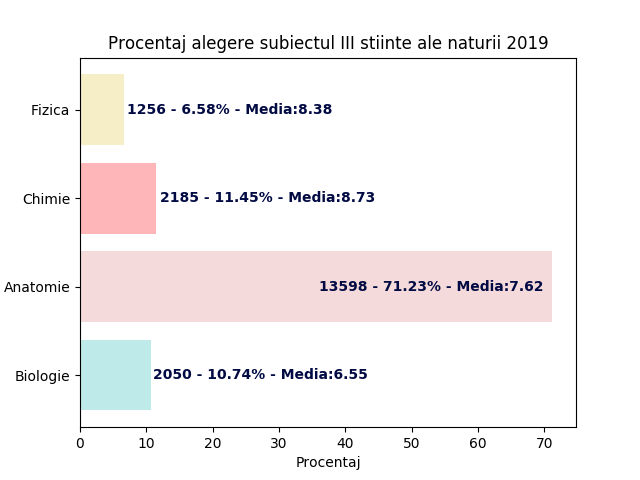
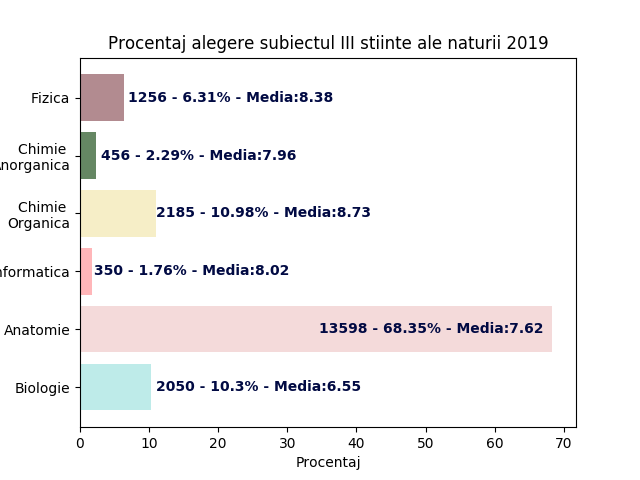
Made barchart for tehnic and resurse naturale profiles Updated Student Class with the "profile" field

diff --git a/create_stats/create_barchart.py b/create_stats/create_barchart.py
@@ -72,11 +72,12 @@ def create_barchart_percentage(all_students, current_export_path, year):
     all_students_informatica = filter_all(all_students_mate_info, subject3 = "informatica mi c/c++")
     all_students_biologie = filter_all(all_students_mate_info, subject3 = "biologie vegetala si animala")
     all_students_anatomie = filter_all(all_students_mate_info, subject3 = "anatomie si fiziologie umana, genetica si ecologie umana")
-    all_students_chimie = filter_all(all_students_mate_info, subject3 = "chimie organica teo nivel i/ii")
+    all_students_chimie_organica = filter_all(all_students_mate_info, subject3 = "chimie organica teo nivel i/ii")
+    all_students_chimie_anorganica = filter_all(all_students_mate_info, subject3 = "chimie anorganica teo nivel i/ii")
     all_students_fizica = filter_all(all_students_mate_info, subject3 = "fizica teo")
     
 
-    students_list = [all_students_informatica, all_students_biologie, all_students_anatomie, all_students_chimie, all_students_fizica]
+    students_list = [all_students_informatica, all_students_biologie, all_students_anatomie, all_students_chimie_organica, all_students_chimie_anorganica, all_students_fizica]
 
     all_grades = []
 
@@ -87,10 +88,10 @@ def create_barchart_percentage(all_students, current_export_path, year):
         suma = float(suma) / float(len(student_type))
         all_grades.append(suma)
 
-    colors = ['#BEEBE9', '#F4DADA', '#ffb6b9', '#f6eec7', '#B3C7BA']
+    colors = ['#BEEBE9', '#F4DADA', '#ffb6b9', '#f6eec7', '#B3C7BA', '#B28B90']
 
 
-    name_list = ["Informatica", "Biologie", "Anatomie",  "Chimie", "Fizica"]
+    name_list = ["Informatica", "Biologie", "Anatomie",  "Chimie  \nOrganica", "Chimie    \nAnorganica", "Fizica"]
     make_barchart_percentage_subject3(all_students = students_list, all_grades = all_grades, categories_names = name_list, title = ("Procentaj alegere subiectul III matematica-informatica " + str(year)), current_export_path = current_export_path_4, colors = colors)
 
     #------Stiinte ale naturii alegere sub 3------
@@ -101,14 +102,15 @@ def create_barchart_percentage(all_students, current_export_path, year):
     current_export_path_6 = os.path.join(current_export_path_6, str(year))
 
     all_students_mate_info = filter_all(all_students, specialisation = "stiinte ale naturii")
-    #all_students_informatica = filter_all(all_students_mate_info, subject3 = "informatica mi c/c++")
+    all_students_informatica = filter_all(all_students_mate_info, subject3 = "informatica sn c/c++")
     all_students_biologie = filter_all(all_students_mate_info, subject3 = "biologie vegetala si animala")
     all_students_anatomie = filter_all(all_students_mate_info, subject3 = "anatomie si fiziologie umana, genetica si ecologie umana")
-    all_students_chimie = filter_all(all_students_mate_info, subject3 = "chimie organica teo nivel i/ii")
+    all_students_chimie_organica = filter_all(all_students_mate_info, subject3 = "chimie organica teo nivel i/ii")
+    all_students_chimie_anorganica = filter_all(all_students_mate_info, subject3 = "chimie anorganica teo nivel i/ii")
     all_students_fizica = filter_all(all_students_mate_info, subject3 = "fizica teo")
     
 
-    students_list = [all_students_biologie, all_students_anatomie, all_students_chimie, all_students_fizica]
+    students_list = [all_students_biologie, all_students_anatomie, all_students_informatica, all_students_chimie_organica, all_students_chimie_anorganica, all_students_fizica]
 
     all_grades = []
 
@@ -119,10 +121,10 @@ def create_barchart_percentage(all_students, current_export_path, year):
         suma = float(suma) / float(len(student_type))
         all_grades.append(suma)
 
-    colors = ['#BEEBE9', '#F4DADA', '#ffb6b9', '#f6eec7']
+    colors = ['#BEEBE9', '#F4DADA', '#ffb6b9', '#f6eec7', '#658763', '#B28B90']
 
     
-    name_list = ["Biologie", "Anatomie",  "Chimie", "Fizica"]
+    name_list = ["Biologie", "Anatomie",  "Informatica", "Chimie \nOrganica", "Chimie \nAnorganica", "Fizica"]
     
     make_barchart_percentage_subject3(all_students = students_list, all_grades = all_grades, categories_names = name_list, title = ("Procentaj alegere subiectul III stiinte ale naturii " + str(year)), current_export_path = current_export_path_6, colors = colors)
 
@@ -161,6 +163,86 @@ def create_barchart_percentage(all_students, current_export_path, year):
     name_list = ["Filosofie", "Logica", "Sociologie",  "Geografie", "Psihologie", "Economie"]
 
     make_barchart_percentage_subject3(all_students = students_list, all_grades = all_grades, categories_names = name_list, title = ("Procentaj alegere subiectul III filologie " + str(year)), current_export_path = current_export_path_5, colors = colors)
+
+    #------Profil tehnic alegere sub 3-------------------------
+
+    current_export_path_7 = os.path.join(current_export_path, "Alegere subiect profil Tehnic")
+    if( os.path.exists(current_export_path_7) == False):
+        os.mkdir(current_export_path_7)
+
+    current_export_path_7 = os.path.join(current_export_path_7, str(year))
+    
+    all_students_tehnic = filter_all(all_students, profile = "tehnic")
+
+    
+    
+    #all_students_informatica = filter_all(all_students_mate_info, subject3 = "informatica mi c/c++")
+    all_students_biologie = filter_all(all_students_tehnic, subject3 = "biologie vegetala si animala")
+    all_students_anatomie = filter_all(all_students_tehnic, subject3 = "anatomie si fiziologie umana, genetica si ecologie umana")
+    all_students_chimie_organica = filter_all(all_students_tehnic, subject3 = "chimie organica teh nivel i/ii")
+    all_students_chimie_anorganica = filter_all(all_students_tehnic, subject3="chimie anorganica teh nivel i/ii")
+    all_students_fizica = filter_all(all_students_tehnic, subject3 = "fizica teh")
+    
+
+    students_list = [all_students_biologie, all_students_anatomie, all_students_chimie_organica, all_students_chimie_anorganica, all_students_fizica]
+
+    all_grades = []
+
+    for student_type in students_list:
+        suma = 0
+        for student in student_type:
+            suma += student.subject3_grade_final
+        suma = float(suma) / float(len(student_type))
+        all_grades.append(suma)
+
+    colors = ['#BEEBE9', '#F4DADA', '#ffb6b9', '#f6eec7', '#B28B90']
+
+    
+    name_list = ["Biologie", "Anatomie",  "Chimie \nOrganica", "Chimie \nAnorganica", "Fizica"]
+    
+    make_barchart_percentage_subject3(all_students = students_list, all_grades = all_grades, categories_names = name_list, title = ("Procentaj alegere subiectul III Profil Tehnic " + str(year)), current_export_path = current_export_path_7, colors = colors)
+
+
+    #------profil Resurse Naturale alegere sub3----------------
+
+    current_export_path_8 = os.path.join(current_export_path, "Alegere subiect profil Resurse Naturale")
+    if( os.path.exists(current_export_path_8) == False):
+        os.mkdir(current_export_path_8)
+
+    current_export_path_8 = os.path.join(current_export_path_8, str(year))
+    
+    all_students_resurse = filter_all(all_students, profile = "resurse naturale si protectia mediului")
+
+    all_categories = {}
+    for i in all_students_resurse:
+        all_categories[i.subject3] = "found"
+    
+    #all_students_informatica = filter_all(all_students_mate_info, subject3 = "informatica mi c/c++")
+    all_students_biologie = filter_all(all_students_resurse, subject3 = "biologie vegetala si animala")
+    all_students_anatomie = filter_all(all_students_resurse, subject3 = "anatomie si fiziologie umana, genetica si ecologie umana")
+    all_students_chimie_organica = filter_all(all_students_resurse, subject3 = "chimie organica teh nivel i/ii")
+    all_students_chimie_anorganica = filter_all(all_students_resurse, subject3="chimie anorganica teh nivel i/ii")
+    all_students_fizica = filter_all(all_students_resurse, subject3 = "fizica teh")
+    
+
+    students_list = [all_students_biologie, all_students_anatomie, all_students_chimie_organica, all_students_chimie_anorganica, all_students_fizica]
+
+    all_grades = []
+
+    for student_type in students_list:
+        suma = 0
+        for student in student_type:
+            suma += student.subject3_grade_final
+        suma = float(suma) / float(len(student_type))
+        all_grades.append(suma)
+
+    colors = ['#BEEBE9', '#F4DADA', '#ffb6b9', '#f6eec7', '#B28B90']
+
+    
+    name_list = ["Biologie", "Anatomie",  "Chimie \nOrganica", "Chimie \nAnorganica", "Fizica"]
+    
+    make_barchart_percentage_subject3(all_students = students_list, all_grades = all_grades, categories_names = name_list, title = ("Procentaj alegere subiectul III Profil Resurse Naturale" + str(year)), current_export_path = current_export_path_8, colors = colors)
+
 
 
     #------nota romana mate-info - stiinte ale naturii---------

diff --git a/classes/student.py b/classes/student.py
@@ -6,7 +6,7 @@ sys.path.append( os.path.dirname(os.path.dirname(os.path.abspath(__file__))) )
 import csv
 from classes.highschool import *
 class Student:
-    def __init__(self, gender, specialisation, medium, highschool, class_name, passed,
+    def __init__(self, gender, specialisation, profile, medium, highschool, class_name, passed,
                    subject1, subject1_grade_init, subject1_grade_final, subject2, subject2_grade_init, subject2_grade_final,
                     subject3, subject3_grade_init, subject3_grade_final ):
         self.gender               = gender
@@ -15,6 +15,7 @@ class Student:
         self.class_name           = class_name
         self.passed               = passed
         self.highschool           = highschool
+        self.profile              = profile.lower()
 
         if subject1_grade_final == '':
             subject1_grade_final = subject1_grade_init
@@ -33,6 +34,11 @@ class Student:
         self.subject2_grade_init  = float(subject2_grade_init)
         self.subject2_grade_final = float(subject2_grade_final)
         self.subject3             = subject3.lower()
+        if self.subject3 == "chimie anorganica teo nivel i/ii     ":
+            self.subject3 = "chimie anorganica teo nivel i/ii"
+        if self.subject3 == "chimie anorganica teh nivel i/ii     ":
+            self.subject3 = "chimie anorganica teh nivel i/ii"
+        self.subject3.strip()
         self.subject3_grade_init  = float(subject3_grade_init)
         self.subject3_grade_final = float(subject3_grade_final)
         
@@ -68,7 +74,7 @@ def initialize_students(results_csv_file, schools_csv_file = None):
                     highschool = Highschool( row[7], row[8])
                 else:
                     highschool = highschools[row[7]]
-                current_student = Student( row[1], row[2], row[6], highschool, row[9], row[50], 
+                current_student = Student( row[1], row[2], row[3], row[6], highschool, row[9], row[50], 
                                     row[10], row[37], row[42],
                                     row[13], row[39], row[46],
                                     row[14], row[40], row[48])

diff --git a/filters/student_filters.py b/filters/student_filters.py
@@ -1,7 +1,7 @@
 
 def filter_all(all_students,specialisation = None, grade = None, gender = None, medium = None,
            highschool = None, locality = None, region = None, class_name = None, passed = None,
-           specialisation_list = None, subject3 = None):
+           specialisation_list = None, subject3 = None, profile = None):
 
     all_students = filter_by_specialisation(all_students, specialisation)
     all_students = filter_by_grade(all_students, grade)
@@ -14,6 +14,7 @@ def filter_all(all_students,specialisation = None, grade = None, gender = None, 
     all_students = filter_by_passing(all_students, passed)
     all_students = filter_by_specialisation_except(all_students, specialisation_list)
     all_students = filter_by_subject3(all_students, subject3)
+    all_students = filter_by_profile(all_students, profile)
     return all_students
 
 def filter_by_specialisation(all_students, specialisation = None):
@@ -170,5 +171,20 @@ def filter_by_subject3(all_students, subject3 = None):
     selected_students = []
     for current_student in all_students:
         if current_student.subject3 == subject3:
+            selected_students.append(current_student)
+    return selected_students
+
+def filter_by_profile(all_students, profile = None):
+    '''
+        Input:  list of students
+                specific specialisation
+        Output: list of students with given profile
+    '''
+    if profile == None:
+        return all_students
+
+    selected_students = []
+    for current_student in all_students:
+        if current_student.profile == profile:
             selected_students.append(current_student)
     return selected_students
